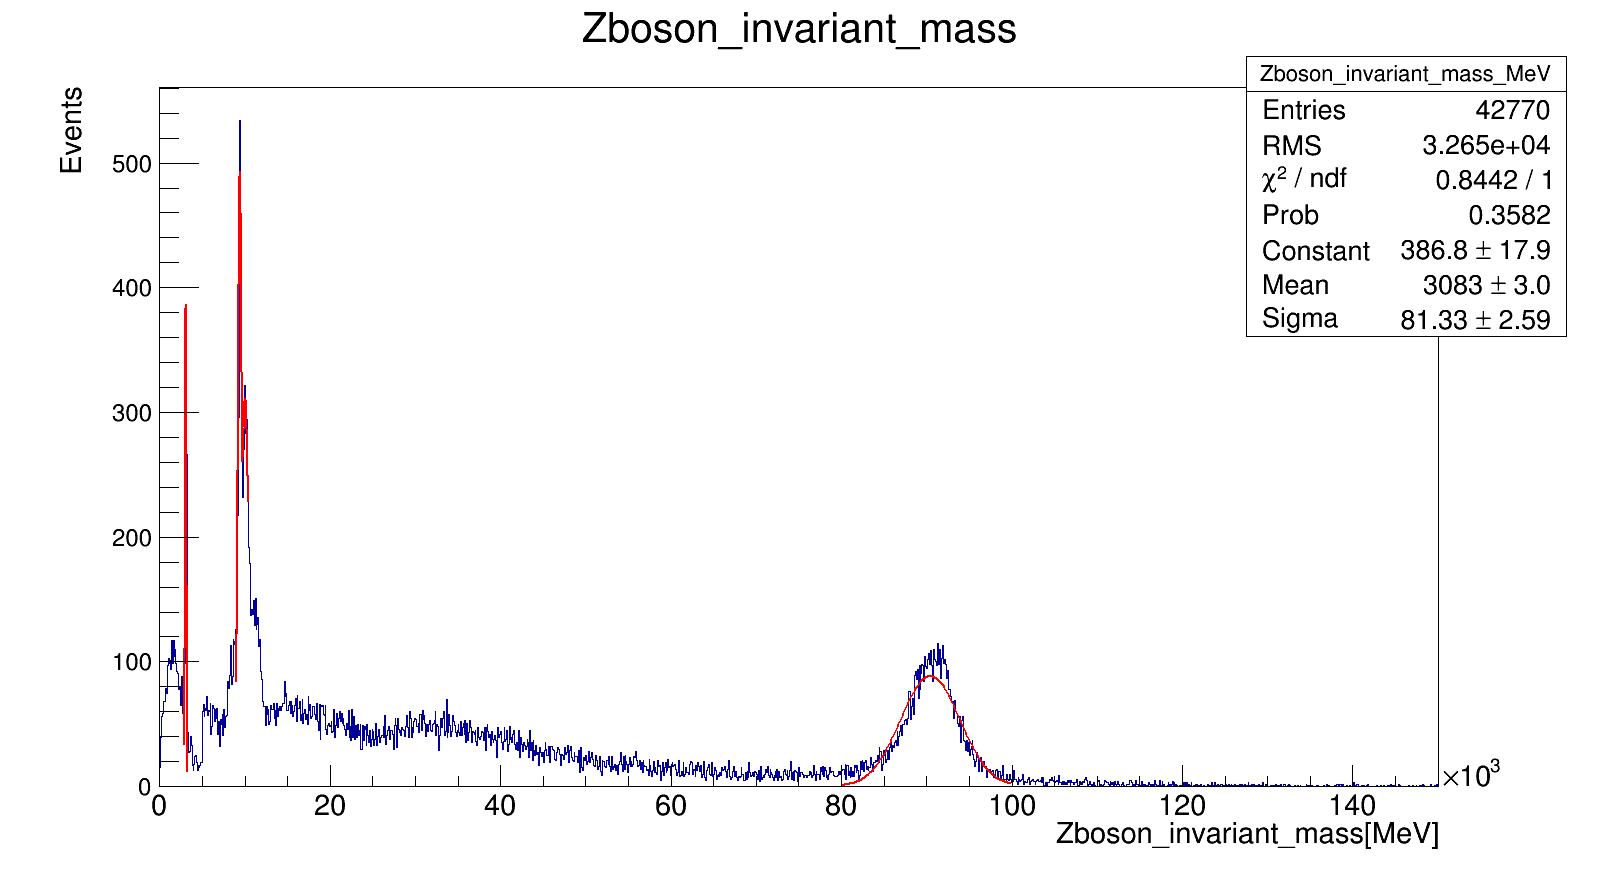
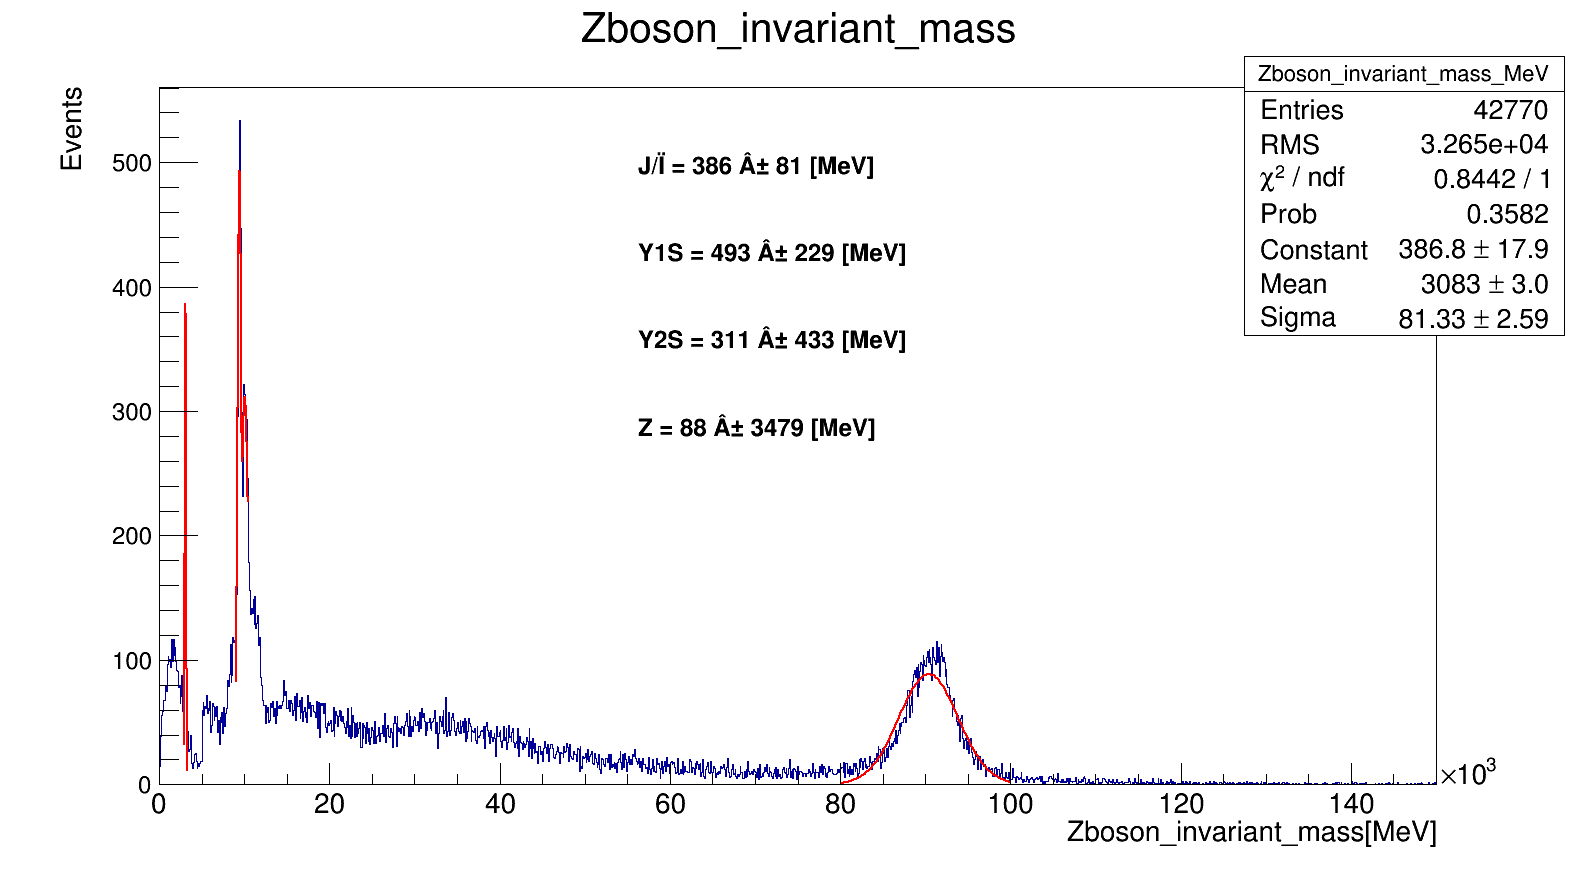
incomplete

diff --git a/muon_invariant_mass.cpp b/muon_invariant_mass.cpp
@@ -34,11 +34,11 @@ void muon_invariant_mass(){
   double h = 1000;//escape height
   double m = 0.032;//escape mean
   double w = 0.008;//escape width
-  double mean_jp = 0;
+  double mean_JP = 0;
   double mean_Y1S = 0;
   double mean_Y2S = 0;
   double mean_Z = 0;
-  double err_jp = 0;
+  double err_JP = 0;
   double err_Y1S = 0;
   double err_Y2S = 0;
   double err_Z = 0;
@@ -97,8 +97,8 @@ void muon_invariant_mass(){
   gStyle->SetOptStat(1022);
   TF1 * fjp_m = new TF1("fjp_m","gaus",0,150);
   hist_m->Fit("fjp_m","+","",min_jp,max_jp);
-  mean_jp = fjp_m->GetParameter(0);
-  err_jp = fjp_m->GetParameter(2);
+  mean_JP = fjp_m->GetParameter(0);
+  err_JP = fjp_m->GetParameter(2);
   TF1 * fy1s_m = new TF1("fy1s_m","gaus",0,150);
   hist_m->Fit("fy1s_m","+","",min_Y1S,max_Y1S);
   mean_Y1S = fy1s_m->GetParameter(0);
@@ -115,11 +115,16 @@ void muon_invariant_mass(){
   TLatex  latex;
   latex.SetTextSize(0.03);
   latex.SetNDC(1);
-  string label_jp = "J/ψ = " + Form("%d",static_cast<int>(mean_jp)) + "±" + Form("%d",static_cast<int>(err_jp)) + "[MeV]";
-  string label_Y1S = "Y1S = " + Form("%d",static_cast<int>(mean_Y1S)) + "±" + Form("%d",static_cast<int>(err_Y1S)) + "[MeV]";
-  string label_Y2S = "Y2S = " + Form("%d",static_cast<int>(mean_Y2S)) + "±" + Form("%d",static_cast<int>(err_Y2S)) + "[MeV]";
-  string label_Z = "Z = " + Form("%d",static_cast<int>(mean_Z)) + "±" + Form("%d",static_cast<int>(err_Z)) + "[MeV]";
-  latex.DrawLatex(0.4,0.8,label_jp.c_str());
+  string label_JP = Form("J/ψ = %d ± ",static_cast<int>(mean_JP));  
+  label_JP += Form("%d [MeV]",static_cast<int>(err_JP));
+  string label_Y1S = Form("Y1S = %d ± ",static_cast<int>(mean_Y1S));  
+  label_Y1S += Form("%d [MeV]",static_cast<int>(err_Y1S));
+  string label_Y2S = Form("Y2S = %d ± ",static_cast<int>(mean_Y2S));  
+  label_Y2S += Form("%d [MeV]",static_cast<int>(err_Y2S));
+  string label_Z = Form("Z = %d ± ",static_cast<int>(mean_Z));  
+  label_Z += Form("%d [MeV]",static_cast<int>(err_Z));
+  cout<< label_JP<<" "<<label_Y1S<<" "<<label_Y2S<<" "<<label_Z<<endl;    
+  latex.DrawLatex(0.4,0.8,label_JP.c_str());
   latex.DrawLatex(0.4,0.7,label_Y1S.c_str());
   latex.DrawLatex(0.4,0.6,label_Y2S.c_str());
   latex.DrawLatex(0.4,0.5,label_Z.c_str());
